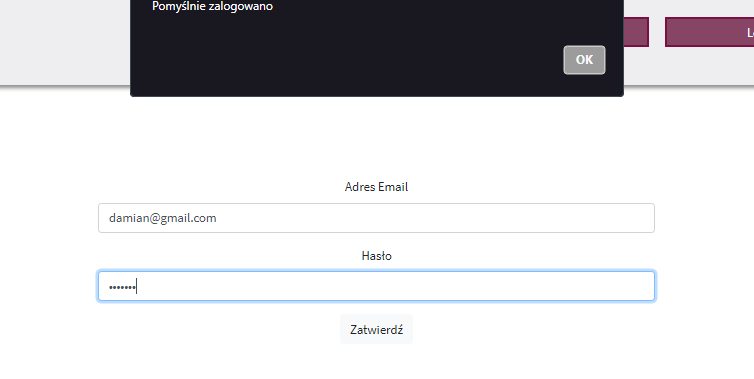
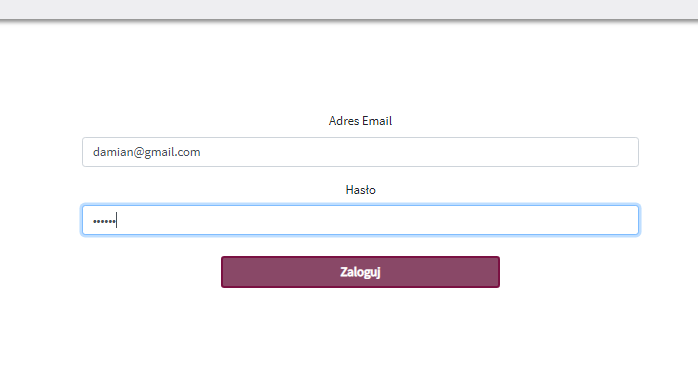
Change register/login button style

diff --git a/src/app/signup/signup.component.html b/src/app/signup/signup.component.html
@@ -65,7 +65,7 @@
     </div>
   </div>
   <div class="form-group">
-    <button class="btn btn-light" type="submit" [disabled]="!Signup_form.valid">Zatwierdź</button>
+    <button class="btn btn-light" type="submit" [disabled]="!Signup_form.valid">Zarejestruj</button>
   </div>
   <div *ngIf="error">
     <small [class.text-danger]="!success" [class.text-success]="success">{{error}}</small>

diff --git a/src/app/login/login.component.html b/src/app/login/login.component.html
@@ -21,7 +21,7 @@
     </div>
   </div>
   <div class="form-group">
-    <button class="btn btn-light" type="submit" [disabled]="!Login_form.valid">Zatwierdź</button>
+    <button class="btn btn-light" type="submit" [disabled]="!Login_form.valid">Zaloguj</button>
   </div>
   <div *ngIf="error">
     <small class="text-danger">{{error}}</small>

diff --git a/src/app/login/login.component.css b/src/app/login/login.component.css
@@ -10,3 +10,17 @@
     width: 80%;
   }
 }
+
+.btn-light {
+  width:50%;
+  color:#fff;
+  background-color: rgba(114, 37, 73, 0.835);
+  border: 2px rgba(119, 7, 59, 0.835) solid;
+  margin-top: 10px;
+  font-weight: bold;
+}
+
+.btn-light:hover {
+  opacity: 0.8;
+  cursor: pointer;
+}

diff --git a/src/app/signup/signup.component.css b/src/app/signup/signup.component.css
@@ -10,3 +10,17 @@
     width: 80%;
   }
 }
+
+.btn-light {
+  width:50%;
+  color:#fff;
+  background-color: rgba(114, 37, 73, 0.835);
+  border: 2px rgba(119, 7, 59, 0.835) solid;
+  margin-top: 10px;
+  font-weight: bold;
+}
+
+.btn-light:hover {
+  opacity: 0.8;
+  cursor: pointer;
+}
